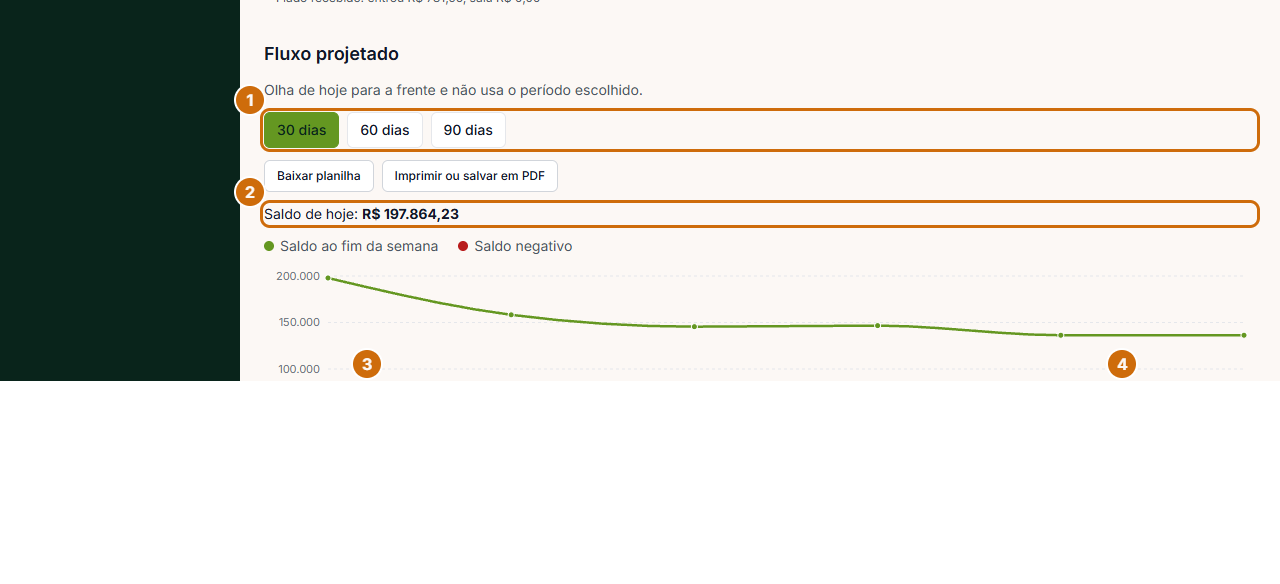
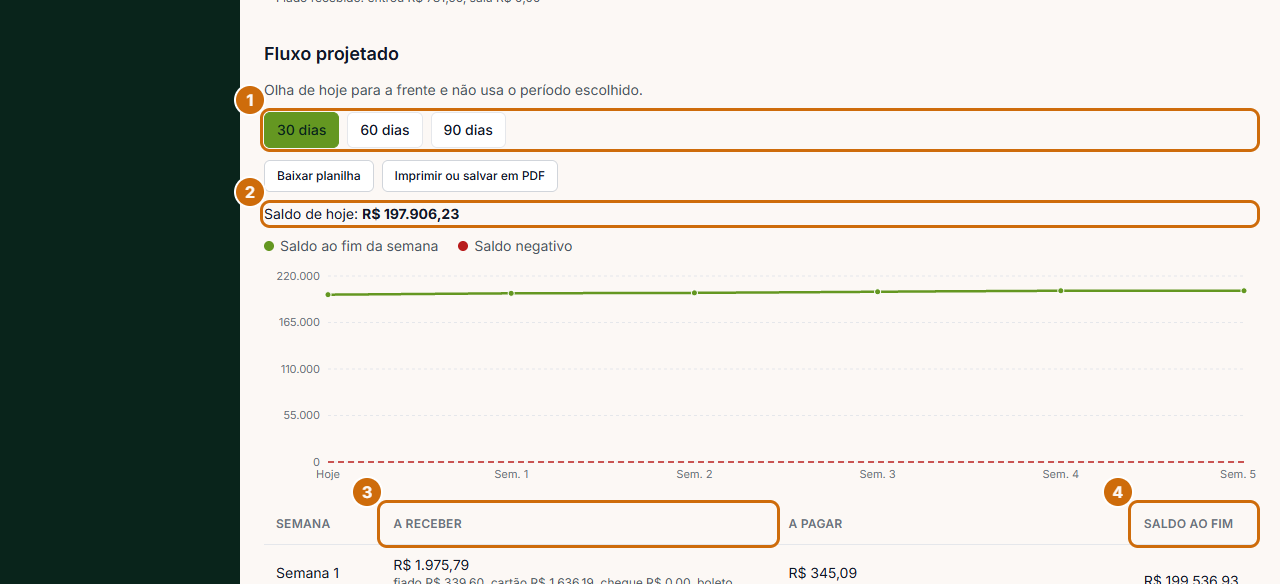
Onda 7, juiz: a foto da projecao no celular nao sai mais em branco
A secao ficava abaixo da janela de 3200 px e o recorte caia fora do que
foi desenhado; no computador as marcas eram medidas antes de o grafico
crescer. A m136 passa a reprovar PNG de figura quase vazio.

diff --git a/scripts/m136-manual-emporio.test.ts b/scripts/m136-manual-emporio.test.ts
@@ -309,6 +309,18 @@ check(
   faltaPng.length === 0,
   `faltam ${faltaPng.length}: ${faltaPng.slice(0, 8).join(", ")}${faltaPng.length > 8 ? ", ..." : ""} (esperado até a Task 6)`,
 );
+// Uma folha branca de celular tem uns 5 KB, e a menor foto de verdade passa de
+// 30 KB: em 28/11 a financeiro-projecao-celular saiu em branco e só o juiz viu.
+const PISO_DO_PNG = 15_000;
+const vazios = FIGURAS.flatMap((f) => [`${f.id}.png`, `${f.id}-celular.png`]).filter((arq) => {
+  const cheio = path.join(PASTA_IMAGENS, arq);
+  return existsSync(cheio) && statSync(cheio).size < PISO_DO_PNG;
+});
+check(
+  `nenhum PNG das figuras é uma folha quase vazia (menos de ${PISO_DO_PNG / 1000} KB)`,
+  vazios.length === 0,
+  `quase vazios: ${vazios.join(", ")}`,
+);
 const faltaGif = ANIMACOES.filter((a) => !existsSync(path.join(PASTA_IMAGENS, `${a.id}.gif`))).map((a) => `${a.id}.gif`);
 check(
   `o GIF existe para as ${ANIMACOES.length} animações`,

diff --git a/scripts/navegador/manual-emporio.py b/scripts/navegador/manual-emporio.py
@@ -1293,12 +1293,28 @@ figura("financeiro-extrato", "dono", lambda: "/emporio/caixa?lugar=conta:" + id_
 
 # O bloco Fluxo projetado e o ultimo da aba Dinheiro: a janela recorta a partir do titulo dele.
 FLUXO = "M.S('Fluxo projetado')"
+
+
+def esperar_o_grafico_do_fluxo():
+    """O grafico nasce com altura zero e cresce depois: medir antes disso poe
+    as marcas 3 e 4 em cima do grafico e a foto sai cortada (28/11). Espera o
+    grafico ter altura e a tabela parar de descer."""
+    esperar(lambda: js("(() => { const s = document.querySelector('.recharts-surface'); return !!s && s.getBoundingClientRect().height > 50; })()"), 30)
+    topo = "(() => { const t = " + FLUXO.replace("M.", "window.__m.") + "; const th = t && t.querySelector('th'); return th ? Math.round(th.getBoundingClientRect().top + scrollY) : -1; })()"
+    anterior = None
+    for _ in range(20):
+        atual = js(topo)
+        if atual == anterior and atual != -1:
+            break
+        anterior = atual
+        time.sleep(0.5)
+    time.sleep(1)
 figura("financeiro-projecao", "dono", "/emporio/estatisticas?aba=dinheiro", [
     (1, "document.querySelector('nav[aria-label=\"Janela da projeção\"]')", "os botoes 30, 60 e 90 dias"),
     (2, "M.todos('p').find(p => M.norm(p.innerText).startsWith('saldo de hoje:'))", "o saldo de hoje"),
     (3, "Array.from(" + FLUXO + ".querySelectorAll('th')).find(th => M.norm(th.innerText).startsWith('a receber'))", "a coluna A receber"),
     (4, "Array.from(" + FLUXO + ".querySelectorAll('th')).find(th => M.norm(th.innerText).startsWith('saldo ao fim'))", "a coluna Saldo ao fim"),
-], rolar="M.H('Fluxo projetado')", hd=900, hc=1300)
+], rolar="M.H('Fluxo projetado')", antes=esperar_o_grafico_do_fluxo, hd=900, hc=1300)
 
 figura("financeiro-relatorios", "dono", "/emporio/estatisticas?aba=dinheiro", [
     (1, "document.querySelector('[role=\"group\"][aria-label=\"Período\"]')", "o filtro de periodo"),
@@ -1406,6 +1422,14 @@ def executar_modo(fig, modo, largura, altura, escala, sufixo):
         ro = achar(fig["rolar"])
         if ro:
             y0 = max(0, int(ro["y"]) - 40)
+        # Secao abaixo da janela de 3200 px (a aba Dinheiro no celular): o
+        # recorte cairia fora do que foi desenhado e a foto sairia em branco.
+        if y0 + janela > 3200:
+            viewport(largura, y0 + janela + 200, escala)
+            time.sleep(1)
+            ro = achar(fig["rolar"])
+            if ro:
+                y0 = max(0, int(ro["y"]) - 40)
         # O recorte nao passa do fim da pagina: abaixo dele a captura sai
         # em branco (era o vazio do celular de 'produto-preco-por-loja').
         fim_da_pagina = js("Math.max(...Array.from(document.body.children).filter(e => e.id !== '__marcas').map(e => e.getBoundingClientRect().bottom))") or (y0 + janela)
